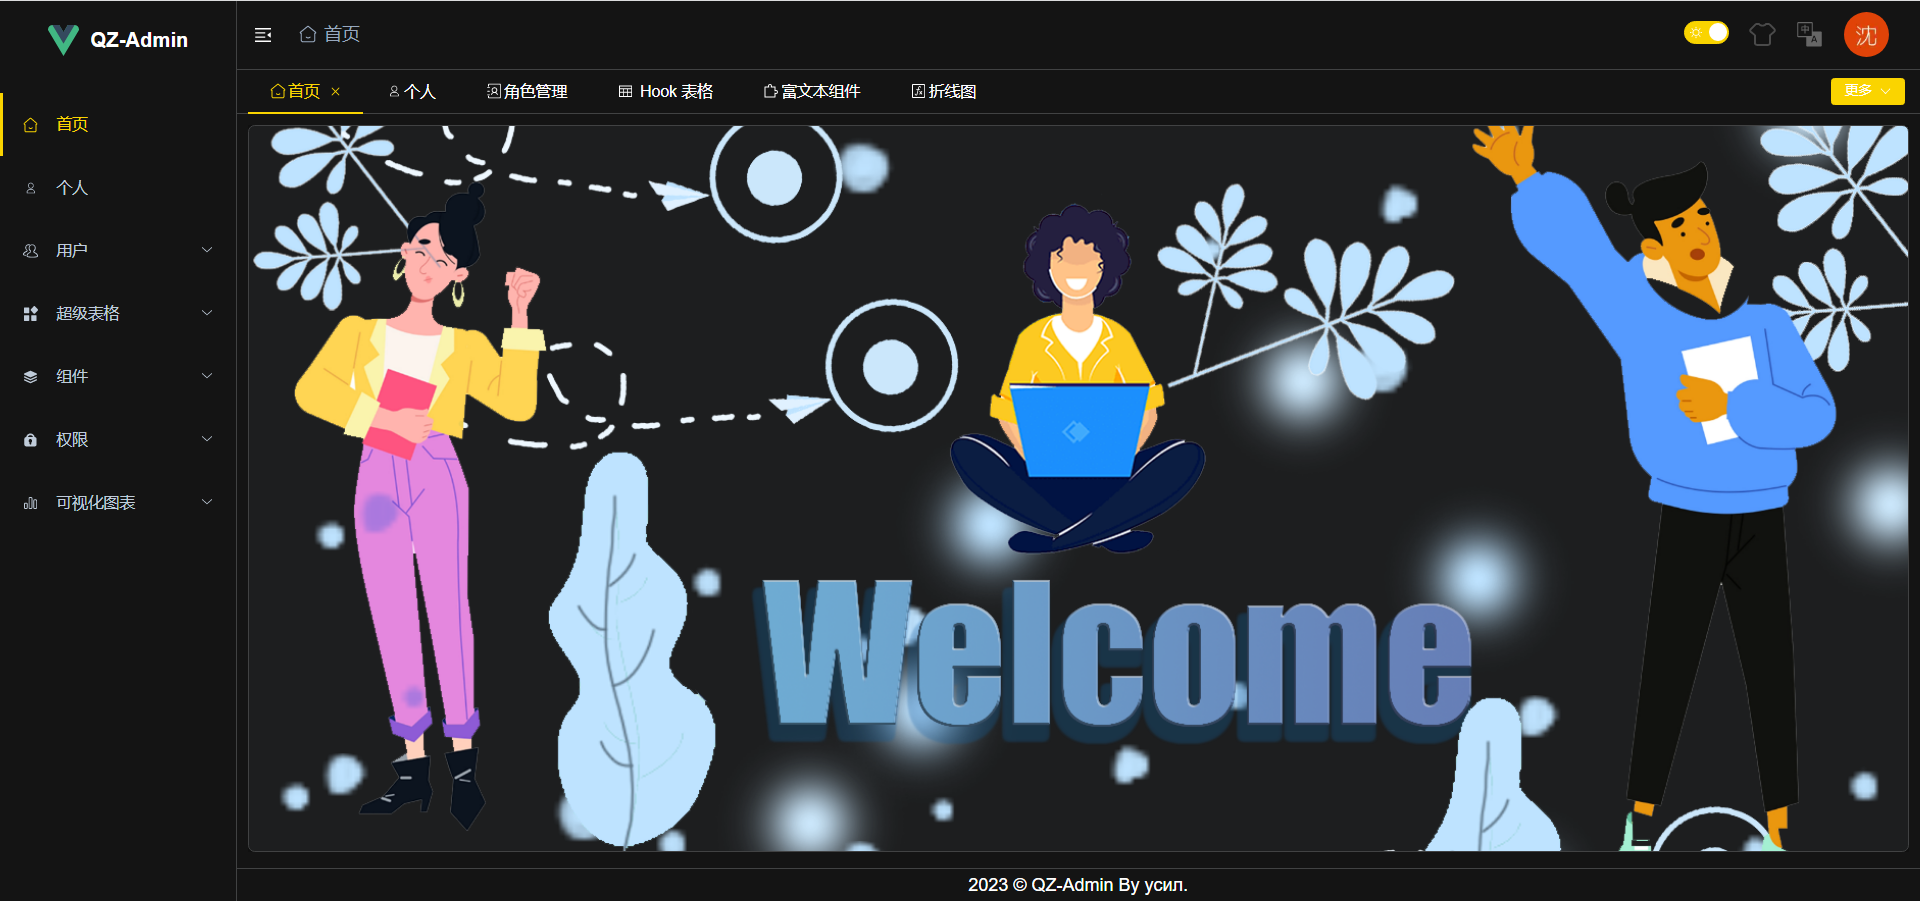
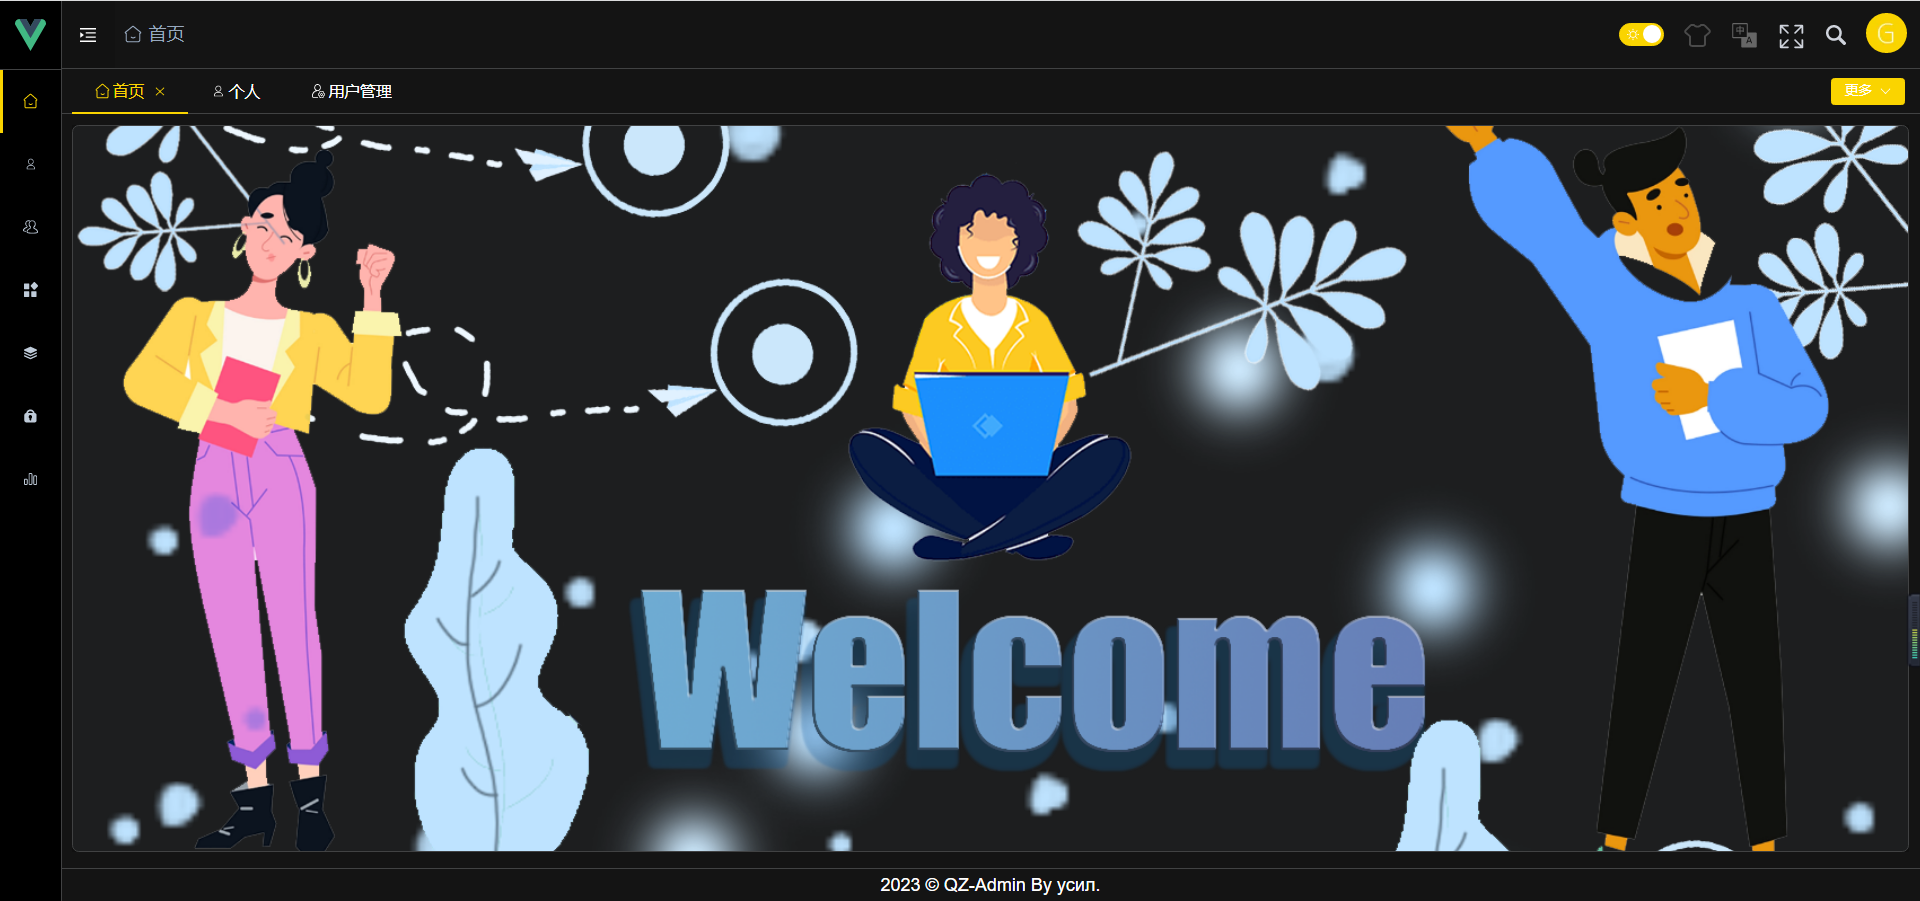
chore: 🔨 项目简介

diff --git a/README.md b/README.md
@@ -17,45 +17,23 @@
 ## 功能点 **🔨**
 
  - [x] 前后端登录鉴权
-
  - [x] 动态路由
-
  - [x] 更换自定义主题色、暗黑模式
-
  - [x] 国际化（中文 + 英文）
-
  - [x] 全局 CSS 样式管理
-
  - [x] 通用 svg 图标组件（支持外部和内部 Svg） 
-
  - [x] 兼容 PC 端 和 移动端
-
  - [x] 自定义 Hook，自定义指令
-
- - [ ] 图片上传
-
- - [ ] 全局搜索
-
- - [ ] 指引
-
- - [ ] 页面全屏
-
- - [ ] 项目页面局部刷新
-
+ - [x] 全局搜索
+ - [x] 页面全屏
+ - [x] 项目页面局部刷新
+ - [x] 数据可视化图表
  - [ ] 权限管理及分配
-
  - [ ] 按钮级别的权限管理
-
  - [ ] Excel 导入及导出
-
  - [ ] MarkDown 和 富文本编辑器
-
  - [ ] 组件拖拽
-
  - [ ] Gird 布局（低代码）
-
- - [ ] 数据可视化图表
-
  - [ ] 将一些对表格的常规操作封装通用组件或 Hook
 
 目前我所想到后台管理系统该有的功能点就现阶段这一些，该项目目前还处在开发阶段，有些功能点还不是很完善。争取这个月底（3月底）能够把上述功能实现出来（目前对于上述功能，都知道如何去实现，主要在于如何做成通用）
@@ -69,6 +47,8 @@
 ![](README/1.png)
 
 ![](README/2.png)
+
+![](README/1-1679821858692-1.png)
 
 ## 项目搭建  **📔**
 
